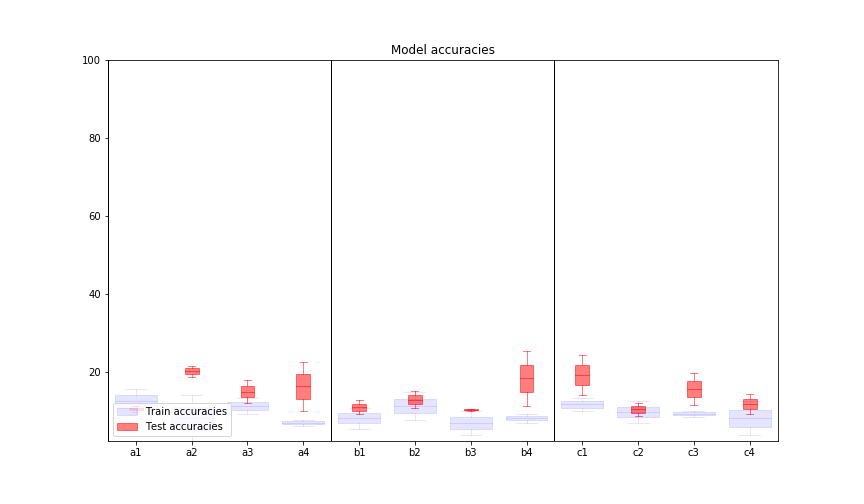
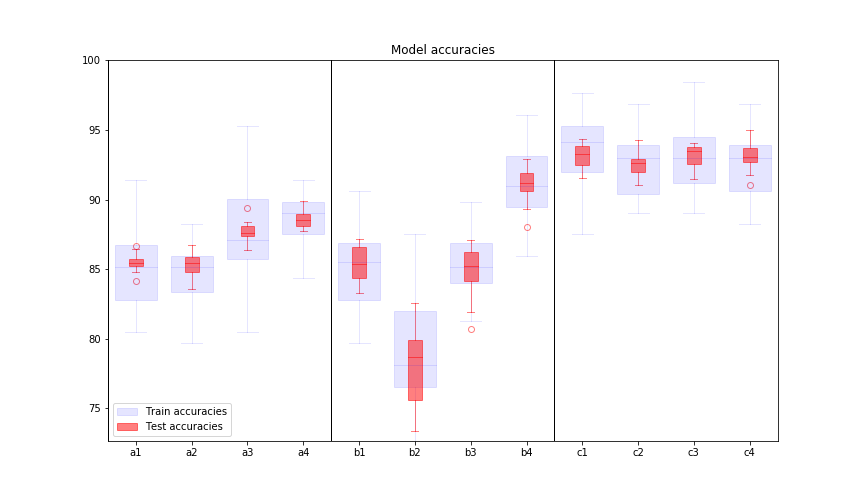
working

diff --git a/utils.py b/utils.py
@@ -140,7 +140,7 @@ def plot_boxes_acc(train_acc, test_acc):
     
     minimums = [min(l) for l in list(train_acc.values()) + list(test_acc.values())]
     minimum = min(minimums)
-    plt.ylim((minimum,100))
+    plt.ylim((minimum-1,101))
 
     plt.savefig("plots/boxes_acc")
     plt.show()
